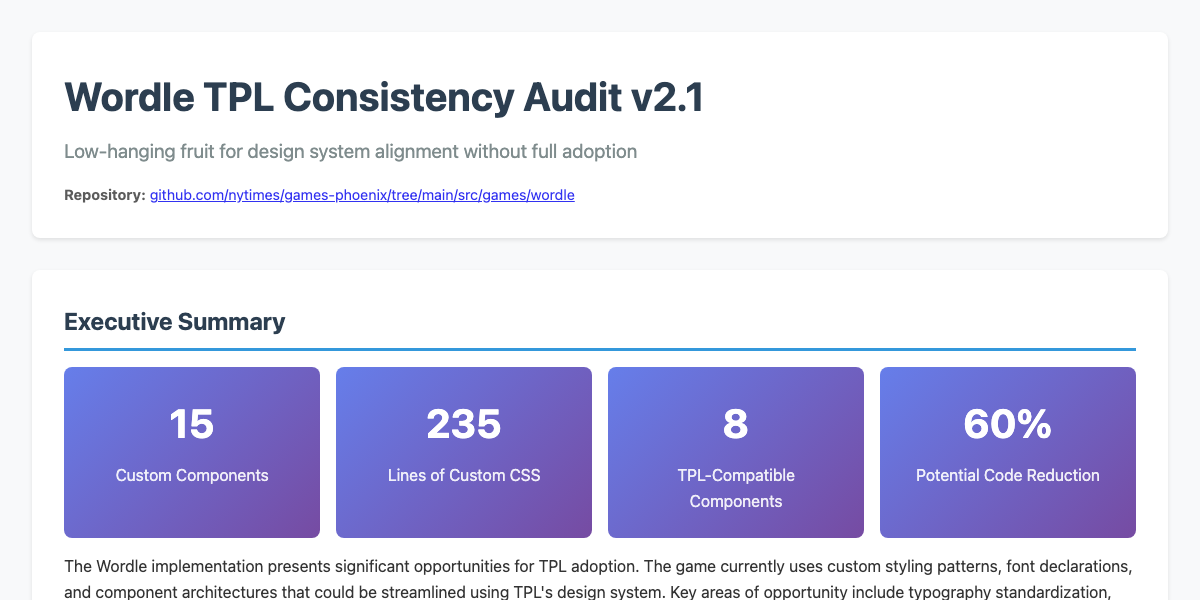
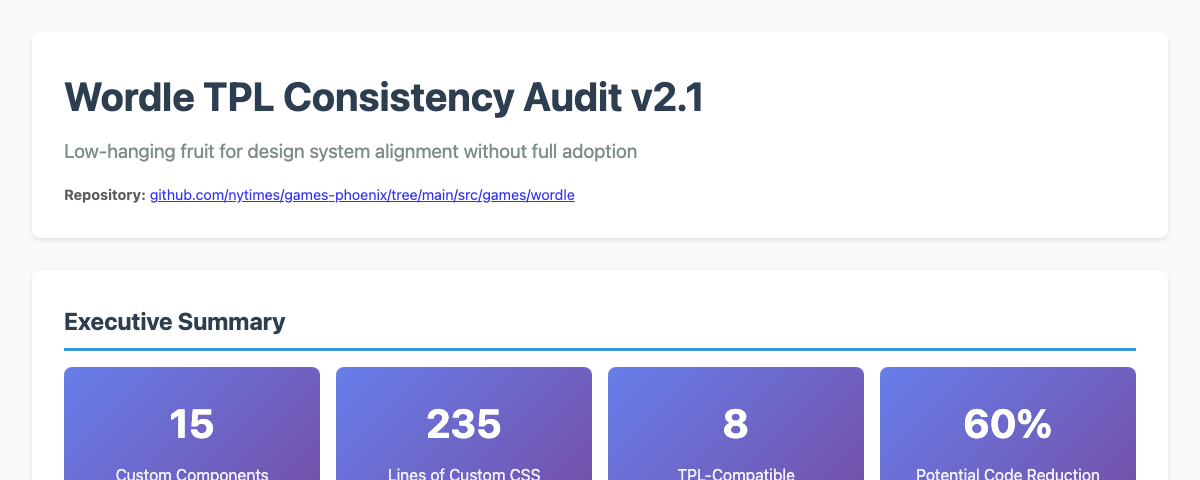
feat: standardize screenshot preview dimensions across all audit documents
- Update capture script to use consistent 1200x480 dimensions (2.5:1 ratio)
- Regenerate all 9 screenshots with standardized sizing for uniform preview appearance
- Update CSS to use background-size: contain and height: 192px (maintains 2.5:1 ratio)
- Improve visual consistency across index page with properly scaled previews
- Reduce file sizes while maintaining quality (59KB-195KB range)

Changed region(s): [[0.0308, 0.5, 0.9558, 1.0], [0.0308, 0.125, 0.5858, 0.3438], [0.0617, 0.375, 0.4933, 0.4375]]

diff --git a/scripts/capture-screenshots.js b/scripts/capture-screenshots.js
@@ -67,10 +67,10 @@ async function captureScreenshots() {
       await page.waitForLoadState('networkidle');
       await page.waitForTimeout(2000); // Extra time for font rendering
       
-      // Capture screenshot of the top portion (good for preview)
+      // Capture screenshot with standardized dimensions
       await page.screenshot({
         path: doc.output,
-        clip: { x: 0, y: 0, width: 1200, height: 600 }, // Top 600px
+        clip: { x: 0, y: 0, width: 1200, height: 480 }, // Standardized 1200x480 (2.5:1 ratio)
         type: 'png'
       });
       

diff --git a/index.html b/index.html
@@ -67,12 +67,12 @@
         
         .screenshot-placeholder {
             width: 100%;
-            height: 120px;
+            height: 192px;
             background: #f5f5f5;
             border: 1px solid #ddd;
             border-radius: 4px;
             margin-top: 8px;
-            background-size: cover;
+            background-size: contain;
             background-position: center;
             background-repeat: no-repeat;
         }
